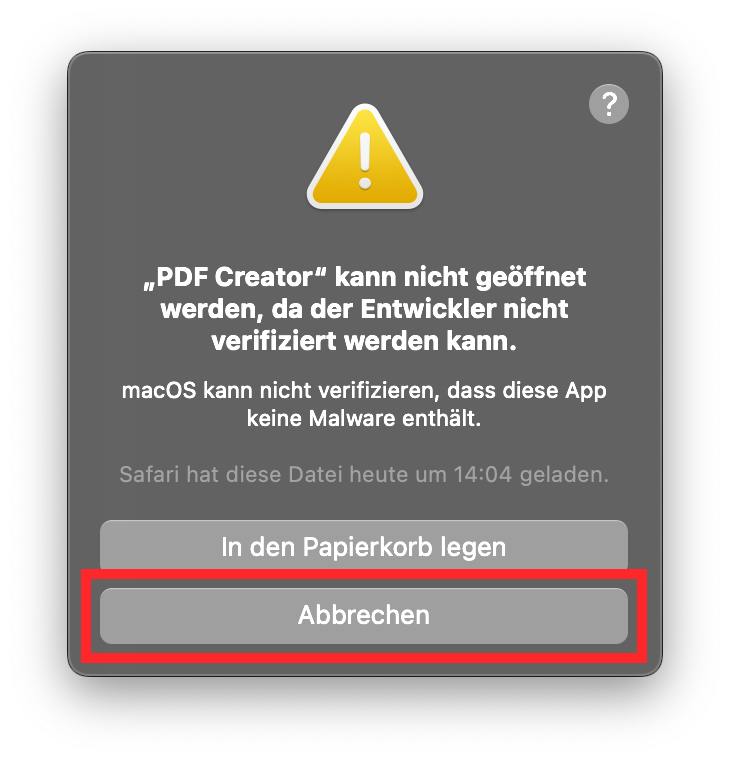
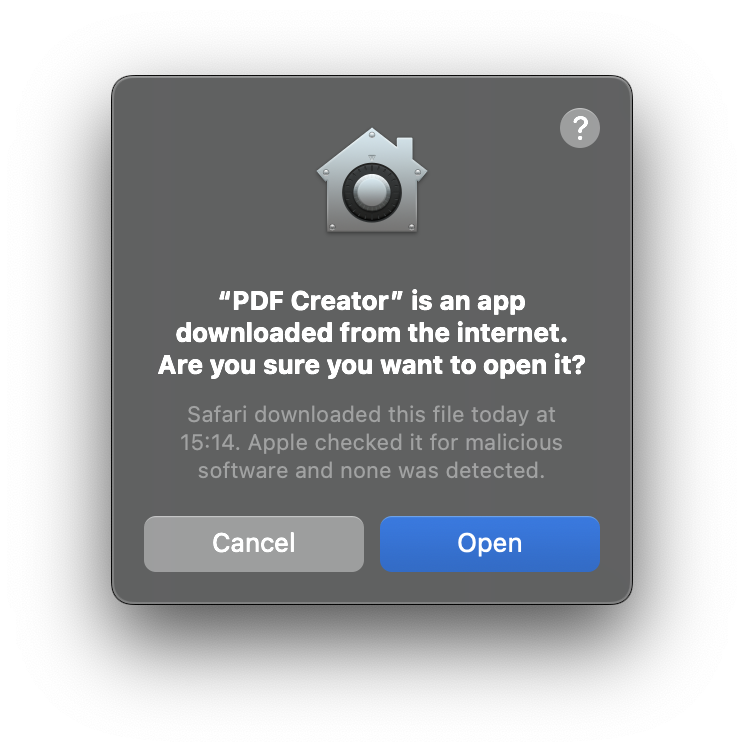
fix notarization improve documentation

diff --git a/pdf_creator.py b/pdf_creator.py
@@ -603,13 +603,16 @@ class ImageUploader(QWidget):
         output_folder = os.path.join(parent_dir, base_name)
         if old_folder_existed:
             if output_folder == folder_suggestion:
-                reply = QMessageBox.question(
-                    self,
-                    "Ordner existiert bereits",
-                    f"Der Ordner\n\n{output_folder}\n\nexistiert bereits.\nMöchten Sie den Inhalt überschreiben?",
-                    QMessageBox.StandardButton.Yes | QMessageBox.StandardButton.No,
-                    QMessageBox.StandardButton.No
-                )
+                msg_box = QMessageBox(self)
+                msg_box.setWindowTitle("Ordner existiert bereits")
+                msg_box.setText(f"Der Ordner\n\n{output_folder}\n\nexistiert bereits.\nMöchten Sie den Inhalt überschreiben?")
+                msg_box.setStandardButtons(QMessageBox.StandardButton.Yes | QMessageBox.StandardButton.No)
+                msg_box.setDefaultButton(QMessageBox.StandardButton.No)
+                msg_box.setIcon(QMessageBox.Icon.Question)
+                # Use the same icon as the main application
+                icon_path = self.resource_path(os.path.join('resources', 'icon.png'))
+                msg_box.setWindowIcon(QIcon(icon_path))
+                reply = msg_box.exec()
                 if reply == QMessageBox.StandardButton.Yes:
                     try:
                         shutil.rmtree(temp_renamed_folder)
@@ -687,7 +690,15 @@ class ImageUploader(QWidget):
 
     def pdfFinished(self, save_path):
         self.pdf_progress_dialog.close()
-        QMessageBox.information(self, "PDF erstellt", f"PDF erfolgreich erstellt:\n{save_path}")
+        msg_box = QMessageBox(self)
+        msg_box.setWindowTitle("PDF erstellt")
+        msg_box.setText(f"PDF erfolgreich erstellt:\n{save_path}")
+        msg_box.setIcon(QMessageBox.Icon.Information)
+        # Use the same icon as the main application
+        icon_path = self.resource_path(os.path.join('resources', 'icon.png'))
+        msg_box.setWindowIcon(QIcon(icon_path))
+        msg_box.exec()
+        
         if sys.platform == "win32":
             os.startfile(save_path)
         elif sys.platform == "darwin":

diff --git a/README.md b/README.md
@@ -8,11 +8,7 @@ Installationsprozess:
 ![](https://github.com/nordify/applaus_pdf_creator/blob/main/docs/1.png?raw=true)
 - Ziehen Sie "PDF Creator" in den "Applications" Ordner:
 ![](https://github.com/nordify/applaus_pdf_creator/blob/main/docs/2.png?raw=true)
-- Es erscheint nun eine Meldung, hier muss zunächst der "Abbrechen"-Button geklickt werden:
-![](https://github.com/nordify/applaus_pdf_creator/blob/main/docs/3.png?raw=true)
-- Navigieren Sie in die Einstellungen, klicken auf der linken Seite auf "Datenschutz & Sicherheit" und scrollen sie nach unten. Hier müssen Sie bei "Das Öffnen von 'PDF Creator' wurde blockiert, ..." auf "Dennoch öffnen klicken":
-![](https://github.com/nordify/applaus_pdf_creator/blob/main/docs/4.png?raw=true)
 - Im letzten Schritt erscheint eine neue Meldung, bei dieser müssen Sie auf "Öffnen" klicken:
-![](https://github.com/nordify/applaus_pdf_creator/blob/main/docs/5.png?raw=true)
+![](https://github.com/nordify/applaus_pdf_creator/blob/main/docs/3.png?raw=true)
 - Für spätere Nutzung finden Sie die Anwendung unter dem Namen "PDF Creator". Die Anwendung ist nun installiert, öffnet sich und kann benutzt werden:
-![](https://github.com/nordify/applaus_pdf_creator/blob/main/docs/6.png?raw=true)
+![](https://github.com/nordify/applaus_pdf_creator/blob/main/docs/3.png?raw=true)
